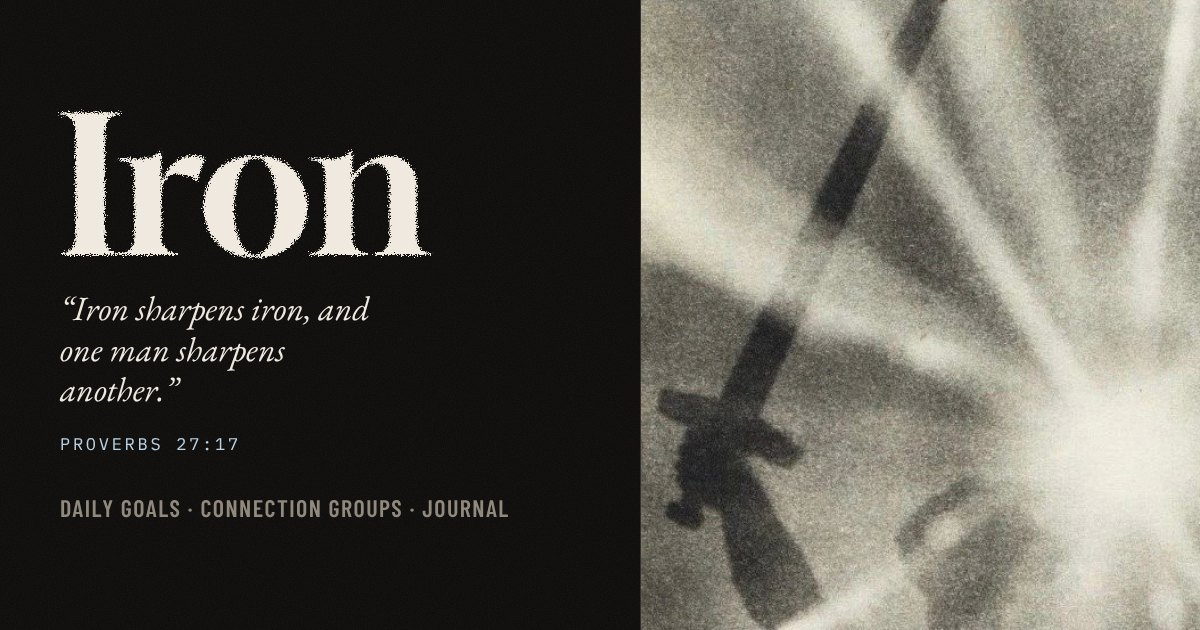
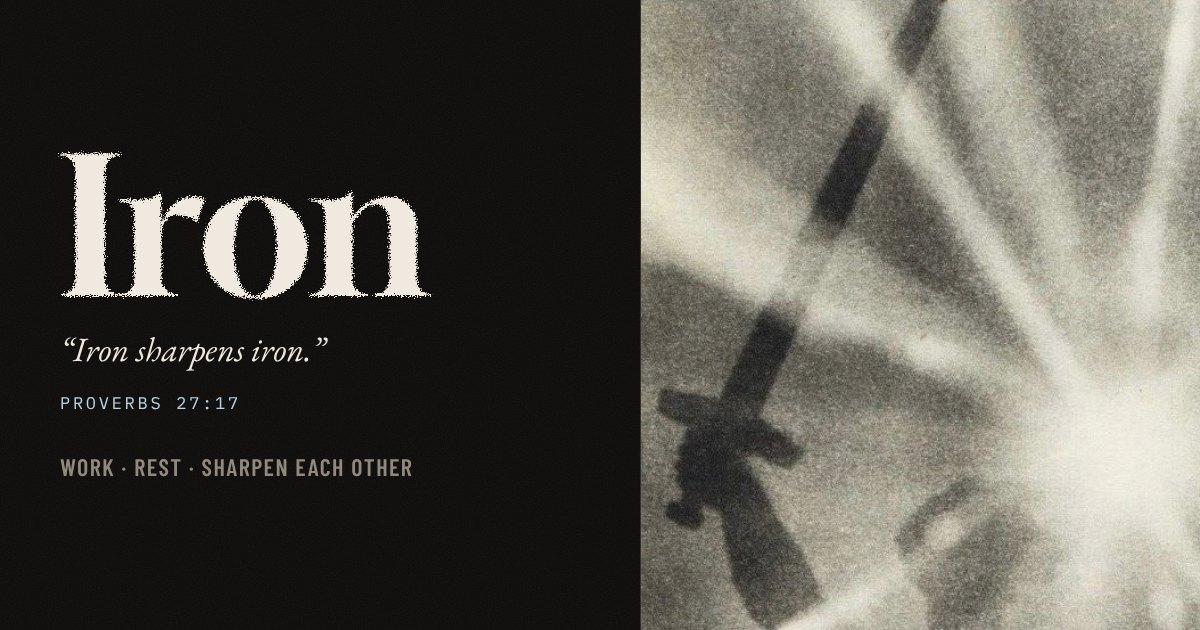
Add files via upload

diff --git a/resources.html b/resources.html
@@ -19,13 +19,13 @@
 <meta property="og:image" content="https://jack-norby.github.io/iron/og-image.jpg">
 <meta property="og:image:width" content="1200">
 <meta property="og:image:height" content="630">
-<meta property="og:image:alt" content="Iron. “Iron sharpens iron, and one man sharpens another.” Proverbs 27:17. A sword against bright light.">
+<meta property="og:image:alt" content="Iron. “Iron sharpens iron.” Proverbs 27:17. A sword against bright light.">
 <meta name="twitter:card" content="summary_large_image">
 <meta name="theme-color" content="#0f0d0c">
 <link rel="preconnect" href="https://fonts.googleapis.com">
 <link rel="preconnect" href="https://fonts.gstatic.com" crossorigin>
 <link rel="stylesheet" href="https://fonts.googleapis.com/css2?family=Barlow+Condensed:wght@500;600&family=EB+Garamond:ital,wght@0,400;0,500;1,400&family=Gloock&family=IBM+Plex+Mono:wght@400;500&display=swap">
-<link rel="stylesheet" href="style.css?v=202610170353">
+<link rel="stylesheet" href="style.css?v=202610171308">
 </head>
 <body>
 <svg class="filters" aria-hidden="true" focusable="false">
@@ -35,14 +35,14 @@
 
 <header class="site-header">
   <div class="inner">
-    <a class="brand" href="index.html?v=202610170353">Iron</a>
+    <a class="brand" href="index.html?v=202610171308">Iron</a>
     <nav aria-label="Sections">
-      <a href="index.html?v=202610170353#today">Today</a>
-      <a href="index.html?v=202610170353#progress">Progress</a>
-      <a href="index.html?v=202610170353#goals">Goals</a>
-      <a href="index.html?v=202610170353#group">Group</a>
-      <a href="resources.html?v=202610170353" aria-current="page">Resources</a>
-      <a href="journal.html?v=202610170353">Journal</a>
+      <a href="index.html?v=202610171308#today">Today</a>
+      <a href="index.html?v=202610171308#progress">Progress</a>
+      <a href="index.html?v=202610171308#goals">Goals</a>
+      <a href="index.html?v=202610171308#group">Group</a>
+      <a href="resources.html?v=202610171308" aria-current="page">Resources</a>
+      <a href="journal.html?v=202610171308">Journal</a>
     </nav>
     <button type="button" class="nav-account" id="account-btn" hidden>Sign in</button>
   </div>
@@ -160,7 +160,6 @@
       <button type="button" class="btn" id="bridge-next">Walk through it</button>
       <button type="button" class="link-btn" id="bridge-all">Show all</button>
     </div>
-    <p class="fine">From our God’s Story handout, Cornerstone leader meeting.</p>
   </section>
 
   <!-- YOUR STORY -->
@@ -176,7 +175,7 @@
       <label for="story-since"><span>3 · Since then</span> What’s different now? Be honest. It’s not perfect.</label>
       <textarea id="story-since" rows="3" placeholder="Now I know I’m loved even when…"></textarea>
       <p class="story-count"><b id="story-words">0</b> words · <span id="story-time">about 0 seconds</span> out loud</p>
-      <p class="fine">Saved on this device as you type. Practice it out loud with a guy in your group.</p>
+      <p class="fine">Saved on this device as you type. Practice it out loud with someone in your group.</p>
     </form>
   </section>
 
@@ -220,29 +219,28 @@
 
     <h3 class="sub-h">How to repent: fast and full</h3>
     <ol class="repent-steps">
-      <li><b>Name it.</b> Be specific. “I looked at porn Tuesday night,” not “I’ve been struggling.”</li>
-      <li><b>Confess it fast.</b> Give yourself a time limit. Tell God right away and tell a brother within 24 hours. The longer it waits, the louder the shame gets.</li>
+      <li><b>Name it.</b> Be specific: say what you actually did, not just “I’ve been struggling.” Vague confession keeps the real thing hidden.</li>
+      <li><b>Confess it fast.</b> Give yourself a time limit. Tell God right away and tell a friend in your group within 24 hours. The longer it waits, the louder the shame gets.</li>
       <li><b>Confess it full.</b> The whole thing, not the edited version. Half-confessions keep part of you in hiding.</li>
       <li><b>Run to Christ, not comfort or control.</b> Receive his forgiveness. You don’t earn your way back.</li>
-      <li><b>Take one real step.</b> Cut off access, change a pattern and ask your brother to follow up.</li>
+      <li><b>Take one real step.</b> Cut off access, change a pattern and ask a friend to follow up.</li>
     </ol>
     <blockquote class="verse"><p>“If we confess our sins, he is faithful and just to forgive us our sins and to cleanse us from all unrighteousness.”</p><cite>1 John 1:9</cite></blockquote>
-    <p class="fine">Repenter quadrant from our Cornerstone leader meeting, 9.20.26.</p>
   </section>
 
 </main>
 
 <footer class="site-footer">
-  <p>Made for college connection groups. <a href="index.html?v=202610170353">Back to today’s check-in</a>.</p>
-  <p class="fine build">Iron · Version 202610170353</p>
+  <p>Made for college connection groups. <a href="index.html?v=202610171308">Back to today’s check-in</a>.</p>
+  <p class="fine build">Iron · Version 202610171308</p>
   <p class="fine">Scripture quotations are from the ESV® Bible (The Holy Bible, English Standard Version®), © 2001 by Crossway, a publishing ministry of Good News Publishers. Used by permission. All rights reserved.</p>
 </footer>
 
-<script src="goals.js?v=202610170353"></script>
-<script src="plan.js?v=202610170353"></script>
-<script src="app.js?v=202610170353"></script>
-<script src="firebase-config.js?v=202610170353"></script>
-<script src="account.js?v=202610170353"></script>
-<script src="resources.js?v=202610170353"></script>
+<script src="goals.js?v=202610171308"></script>
+<script src="plan.js?v=202610171308"></script>
+<script src="app.js?v=202610171308"></script>
+<script src="firebase-config.js?v=202610171308"></script>
+<script src="account.js?v=202610171308"></script>
+<script src="resources.js?v=202610171308"></script>
 </body>
 </html>

diff --git a/index.html b/index.html
@@ -23,9 +23,9 @@
 <meta property="og:image" content="https://jack-norby.github.io/iron/og-image.jpg">
 <meta property="og:image:width" content="1200">
 <meta property="og:image:height" content="630">
-<meta property="og:image:alt" content="Iron. “Iron sharpens iron, and one man sharpens another.” Proverbs 27:17. A sword against bright light.">
+<meta property="og:image:alt" content="Iron. “Iron sharpens iron.” Proverbs 27:17. A sword against bright light.">
 <meta name="twitter:card" content="summary_large_image">
-<link rel="stylesheet" href="style.css?v=202610170353">
+<link rel="stylesheet" href="style.css?v=202610171308">
 </head>
 <body>
 <svg class="filters" aria-hidden="true" focusable="false">
@@ -41,8 +41,8 @@
       <a href="#progress">Progress</a>
       <a href="#goals">Goals</a>
       <a href="#group">Group</a>
-      <a href="resources.html?v=202610170353">Resources</a>
-      <a href="journal.html?v=202610170353">Journal</a>
+      <a href="resources.html?v=202610171308">Resources</a>
+      <a href="journal.html?v=202610171308">Journal</a>
     </nav>
     <button type="button" class="nav-account" id="account-btn" hidden>Sign in</button>
   </div>
@@ -142,10 +142,10 @@
   <!-- GROUP: weekly accountability -->
   <section id="group" class="section">
     <h2>Connection group</h2>
-    <div class="frame frame--sword" aria-label="Iron sharpens iron, and one man sharpens another. Proverbs 27:17">
+    <div class="frame frame--sword" aria-label="Iron sharpens iron. Proverbs 27:17">
       <img class="frame-photo" src="sword-light.jpg" alt="" width="667" height="553" loading="lazy">
-      <p class="verse-big">“Iron sharpens iron, and one man sharpens another.”</p>
-      <div class="frame-meta"><span>Proverbs 27:17</span><span>Once a week · together</span></div>
+      <p class="verse-big">“Iron sharpens iron.”</p>
+      <div class="frame-meta"><span>Proverbs 27:17</span><span>Sharpen each other · once a week</span></div>
     </div>
     <p>Go through these together once a week. First round, give a quick one- or two-sentence answer to each. Then go back to whatever needs more time.</p>
     <div class="q-cols">
@@ -160,7 +160,7 @@
     </div>
     <div class="btn-row">
       <button type="button" class="btn" id="copy-questions">Copy questions</button>
-      <a class="btn btn--light" href="resources.html?v=202610170353#repent">Repenter quadrant</a>
+      <a class="btn btn--light" href="resources.html?v=202610171308#repent">Repenter quadrant</a>
     </div>
     <p class="status" id="copy-status" role="status"></p>
     <textarea id="questions-text" class="visually-hidden" aria-hidden="true" tabindex="-1"></textarea>
@@ -213,14 +213,14 @@
 
 <footer class="site-footer">
   <p>Made for college connection groups. Readings from Cornerstone’s <a href="https://cornerstonelife.com/workout/" target="_blank" rel="noopener">Spiritual Workout Plan</a>.</p>
-  <p class="fine build">Iron · Version 202610170353</p>
+  <p class="fine build">Iron · Version 202610171308</p>
   <p class="fine">Scripture quotations are from the ESV® Bible (The Holy Bible, English Standard Version®), © 2001 by Crossway, a publishing ministry of Good News Publishers. Used by permission. All rights reserved.</p>
 </footer>
 
-<script src="goals.js?v=202610170353"></script>
-<script src="plan.js?v=202610170353"></script>
-<script src="app.js?v=202610170353"></script>
-<script src="firebase-config.js?v=202610170353"></script>
-<script src="account.js?v=202610170353"></script>
+<script src="goals.js?v=202610171308"></script>
+<script src="plan.js?v=202610171308"></script>
+<script src="app.js?v=202610171308"></script>
+<script src="firebase-config.js?v=202610171308"></script>
+<script src="account.js?v=202610171308"></script>
 </body>
 </html>

diff --git a/journal.html b/journal.html
@@ -19,13 +19,13 @@
 <meta property="og:image" content="https://jack-norby.github.io/iron/og-image.jpg">
 <meta property="og:image:width" content="1200">
 <meta property="og:image:height" content="630">
-<meta property="og:image:alt" content="Iron. “Iron sharpens iron, and one man sharpens another.” Proverbs 27:17. A sword against bright light.">
+<meta property="og:image:alt" content="Iron. “Iron sharpens iron.” Proverbs 27:17. A sword against bright light.">
 <meta name="twitter:card" content="summary_large_image">
 <meta name="theme-color" content="#0f0d0c">
 <link rel="preconnect" href="https://fonts.googleapis.com">
 <link rel="preconnect" href="https://fonts.gstatic.com" crossorigin>
 <link rel="stylesheet" href="https://fonts.googleapis.com/css2?family=Barlow+Condensed:wght@500;600&family=EB+Garamond:ital,wght@0,400;0,500;1,400&family=Gloock&family=IBM+Plex+Mono:wght@400;500&display=swap">
-<link rel="stylesheet" href="style.css?v=202610170353">
+<link rel="stylesheet" href="style.css?v=202610171308">
 </head>
 <body>
 <svg class="filters" aria-hidden="true" focusable="false">
@@ -35,14 +35,14 @@
 
 <header class="site-header">
   <div class="inner">
-    <a class="brand" href="index.html?v=202610170353">Iron</a>
+    <a class="brand" href="index.html?v=202610171308">Iron</a>
     <nav aria-label="Sections">
-      <a href="index.html?v=202610170353#today">Today</a>
-      <a href="index.html?v=202610170353#progress">Progress</a>
-      <a href="index.html?v=202610170353#goals">Goals</a>
-      <a href="index.html?v=202610170353#group">Group</a>
-      <a href="resources.html?v=202610170353">Resources</a>
-      <a href="journal.html?v=202610170353" aria-current="page">Journal</a>
+      <a href="index.html?v=202610171308#today">Today</a>
+      <a href="index.html?v=202610171308#progress">Progress</a>
+      <a href="index.html?v=202610171308#goals">Goals</a>
+      <a href="index.html?v=202610171308#group">Group</a>
+      <a href="resources.html?v=202610171308">Resources</a>
+      <a href="journal.html?v=202610171308" aria-current="page">Journal</a>
     </nav>
     <button type="button" class="nav-account" id="account-btn" hidden>Sign in</button>
   </div>
@@ -115,16 +115,16 @@
 </main>
 
 <footer class="site-footer">
-  <p>Made for college connection groups. <a href="index.html?v=202610170353">Back to today’s check-in</a>.</p>
-  <p class="fine build">Iron · Version 202610170353</p>
+  <p>Made for college connection groups. <a href="index.html?v=202610171308">Back to today’s check-in</a>.</p>
+  <p class="fine build">Iron · Version 202610171308</p>
   <p class="fine">Scripture quotations are from the ESV® Bible (The Holy Bible, English Standard Version®), © 2001 by Crossway, a publishing ministry of Good News Publishers. Used by permission. All rights reserved.</p>
 </footer>
 
-<script src="goals.js?v=202610170353"></script>
-<script src="plan.js?v=202610170353"></script>
-<script src="app.js?v=202610170353"></script>
-<script src="firebase-config.js?v=202610170353"></script>
-<script src="account.js?v=202610170353"></script>
-<script src="journal.js?v=202610170353"></script>
+<script src="goals.js?v=202610171308"></script>
+<script src="plan.js?v=202610171308"></script>
+<script src="app.js?v=202610171308"></script>
+<script src="firebase-config.js?v=202610171308"></script>
+<script src="account.js?v=202610171308"></script>
+<script src="journal.js?v=202610171308"></script>
 </body>
 </html>

diff --git a/resources.js b/resources.js
@@ -64,9 +64,9 @@
     repenter: {
       name: "Repenter",
       axes: "Confess + Action",
-      what: "You bring sin into the light quickly and completely, then actually turn. You confess to God and to a brother, and you take real steps.",
+      what: "You bring sin into the light quickly and completely, then actually turn. You confess to God and to a friend, and you take real steps.",
       driver: "Faith: you trust Jesus more than your comfort or your control.",
-      next: "Keep going. Confess fast (set a time limit) and full (the whole truth), and help a brother do the same.",
+      next: "Keep going. Confess fast (set a time limit) and full (the whole truth), and help a friend do the same.",
       verse: "“Therefore, confess your sins to one another and pray for one another, that you may be healed.” James 5:16"
     },
     talker: {
@@ -82,7 +82,7 @@
       axes: "Conceal + Apathy",
       what: "You keep it hidden and stay stuck. The longer it stays in the dark, the heavier the shame gets.",
       driver: "Fear: of being known and of what people will think.",
-      next: "Tell one brother today. Sin loses a lot of its power the moment it’s said out loud.",
+      next: "Tell one friend today. Sin loses a lot of its power the moment it’s said out loud.",
       verse: "“Whoever conceals his transgressions will not prosper, but he who confesses and forsakes them will obtain mercy.” Proverbs 28:13"
     },
     fixer: {
@@ -90,7 +90,7 @@
       axes: "Conceal + Action",
       what: "You try to fix it alone with willpower, rules and new systems, without telling anyone.",
       driver: "Pride and fear: you move toward control, not toward Christ.",
-      next: "You can’t white-knuckle your way clean. Confess it, receive grace and let your brothers carry it with you.",
+      next: "You can’t white-knuckle your way clean. Confess it, receive grace and let your group carry it with you.",
       verse: "“Come to me, all who labor and are heavy laden, and I will give you rest.” Matthew 11:28"
     }
   };

diff --git a/account.js b/account.js
@@ -348,7 +348,7 @@
       joinGroup(join.querySelector("input").value, join.querySelector(".status"));
     });
     var start = el("form", "crew-form");
-    start.innerHTML = '<label for="new-group">Leading a group? <span>start one and share the code</span></label><div class="add-row"><input id="new-group" type="text" maxlength="40" placeholder="e.g. Tuesday night guys"><button class="btn btn--ghost" type="submit">Start group</button></div><p class="status" role="status"></p>';
+    start.innerHTML = '<label for="new-group">Leading a group? <span>start one and share the code</span></label><div class="add-row"><input id="new-group" type="text" maxlength="40" placeholder="e.g. Tuesday night group"><button class="btn btn--ghost" type="submit">Start group</button></div><p class="status" role="status"></p>';
     start.addEventListener("submit", function (e) {
       e.preventDefault();
       var v = start.querySelector("input").value.trim();
@@ -391,7 +391,7 @@
 
     if (leader) {
       var list = el("div", "crew-members");
-      list.appendChild(el("p", "hint", "Loading your guys…"));
+      list.appendChild(el("p", "hint", "Loading your group…"));
       card.appendChild(list);
       actions.appendChild(button("Refresh", "btn btn--ghost", function () { loadMembers(code, list, status); }));
       loadMembers(code, list, status);

diff --git a/style.css b/style.css
@@ -93,7 +93,8 @@ body::before {
 }
 .site-header {
   position: sticky;
-  top: env(safe-area-inset-top, 0px);
+  top: 0;
+  padding-top: env(safe-area-inset-top, 0px);
   z-index: 10;
   background: var(--paper);
   border-bottom: 1px solid var(--rule);

diff --git a/CLAUDE.md b/CLAUDE.md
@@ -1,8 +1,8 @@
 # Iron: notes for Claude
 
-"Iron sharpens iron, and one man sharpens another." (Proverbs 27:17)
+"Iron sharpens iron." (Proverbs 27:17)
 
-Iron is a static website (plain HTML/CSS/JS, no build step) for college connection groups at Cornerstone Church in Ames, Iowa. Each guy tracks daily goals across four areas, Spiritual first, then Physical, Mental and Emotional. Leaders can run groups and see their guys' progress. The owner is a college student who leads a connection group with a co-counselor.
+Iron is a static website (plain HTML/CSS/JS, no build step) for college connection groups at Cornerstone Church in Ames, Iowa. Each member tracks daily goals across four areas, Spiritual first, then Physical, Mental and Emotional. Leaders can run groups and see their members' progress. The owner is a college student who leads a connection group with a co-counselor.
 
 **The point is rest, not doing more.** Accountability matters, but the owner built Iron after burning out from striving. Adding rest to each of the four areas helped, an idea from *The Power of Full Engagement* (Jim Loehr and Tony Schwartz): push, then recover, in every area. It's modeled on creation: God worked six days and rested on the seventh (Genesis 2:2–3). New features should never make someone feel behind for resting.
 
@@ -37,6 +37,8 @@ Dark, old-film look. Near-black ground (`--paper`), bone-white text (`--ink`; th
 
 ## Content rules
 - Scripture is ESV. Keep the Crossway copyright notice in the footer and quote verses accurately.
+- Wording works for guys' and girls' groups alike: "friend" or "someone in your group," never "brother," "guys" or "he." Proverbs 27:17 is quoted only as "Iron sharpens iron" so the ESV stays word for word without "one man sharpens another."
+- No citations of internal church meetings or handouts on the site.
 - Example goals stay general. Don't use the owner's personal goals (no specific times, diets, names or relationships).
 - The Spiritual Workout Plan is Cornerstone's (cornerstonelife.com/workout). The site links to it and is a fan-made tool, not an official church resource.
 

diff --git a/ACCOUNTS.md b/ACCOUNTS.md
@@ -3,9 +3,9 @@
 Iron works without accounts: each person's goals and check-ins save on their own phone. Turn on accounts and people can sign in with Google or email, their tracker follows them to any device, and you can run **groups**:
 
 - A leader starts a group and gets a 6-character code.
-- Guys join with the code.
+- Members join with the code.
 - A leader can make someone else a leader (your co-counselor).
-- Leaders see each guy's streak, today's progress, last 7 days, how each area is going and when he last checked in. **Leaders never see anyone's actual goals.** Anyone who hasn't checked in for 3+ days is flagged so you know who to reach out to.
+- Leaders see each member's streak, today's progress, last 7 days, how each area is going and when they last checked in. **Leaders never see anyone's actual goals.** Anyone who hasn't checked in for 3+ days is flagged so you know who to reach out to.
 
 Accounts use **Firebase**, Google's free service for sign-in and storage. The free plan covers far more than a few connection groups will ever use. Setup takes about 10 minutes and you only do it once.
 
@@ -87,8 +87,8 @@ These config values aren't secret. Every Firebase website publishes them. The ru
 
 ## Starting your group
 1. Sign in, add your name and tap **Start group**.
-2. Tap **Copy invite** and send it to your guys. It includes the link and the code.
-3. When your co-counselor joins, tap **Make leader** next to his name.
+2. Tap **Copy invite** and send it to your group. It includes the link and the code.
+3. When your co-counselor joins, tap **Make leader** next to their name.
 
 ## Testing locally (optional)
 Adding `useEmulators: true` to the config points the site at the local Firebase emulators (Auth on port 9099, Firestore on 8089) instead of the live project. Never set it on the live site.

diff --git a/README.md b/README.md
@@ -1,6 +1,6 @@
 # Iron
 
-> “Iron sharpens iron, and one man sharpens another.” Proverbs 27:17
+> “Iron sharpens iron.” Proverbs 27:17
 
 A simple daily tracker for college connection groups. It covers four areas (Spiritual first, then Physical, Mental and Emotional) on one page.
 
